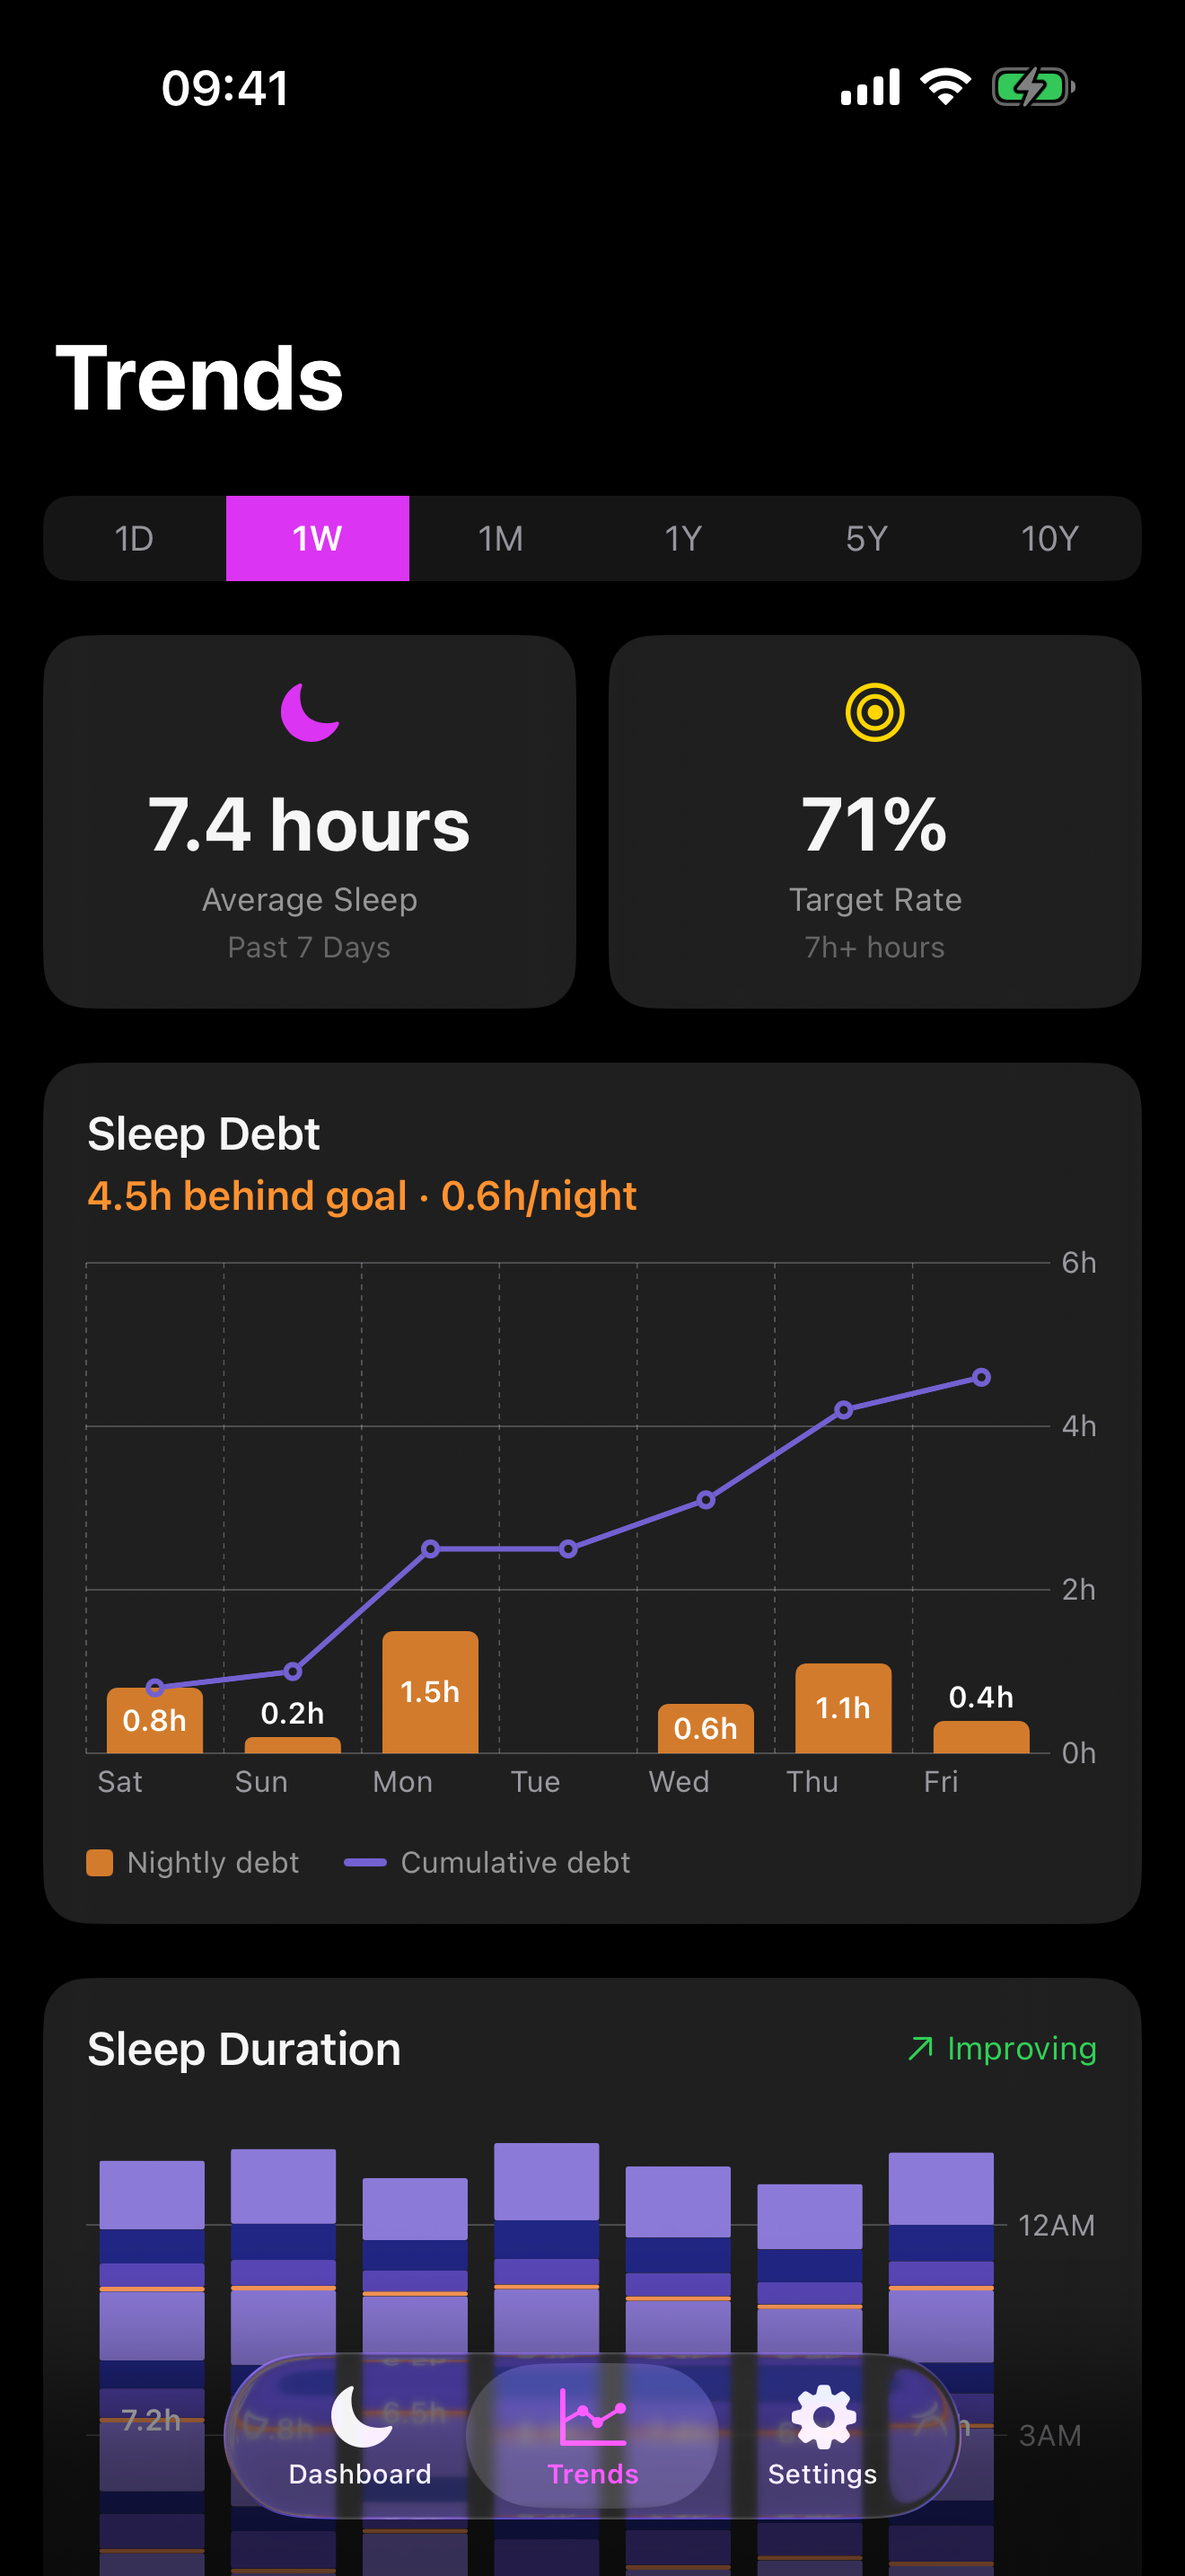
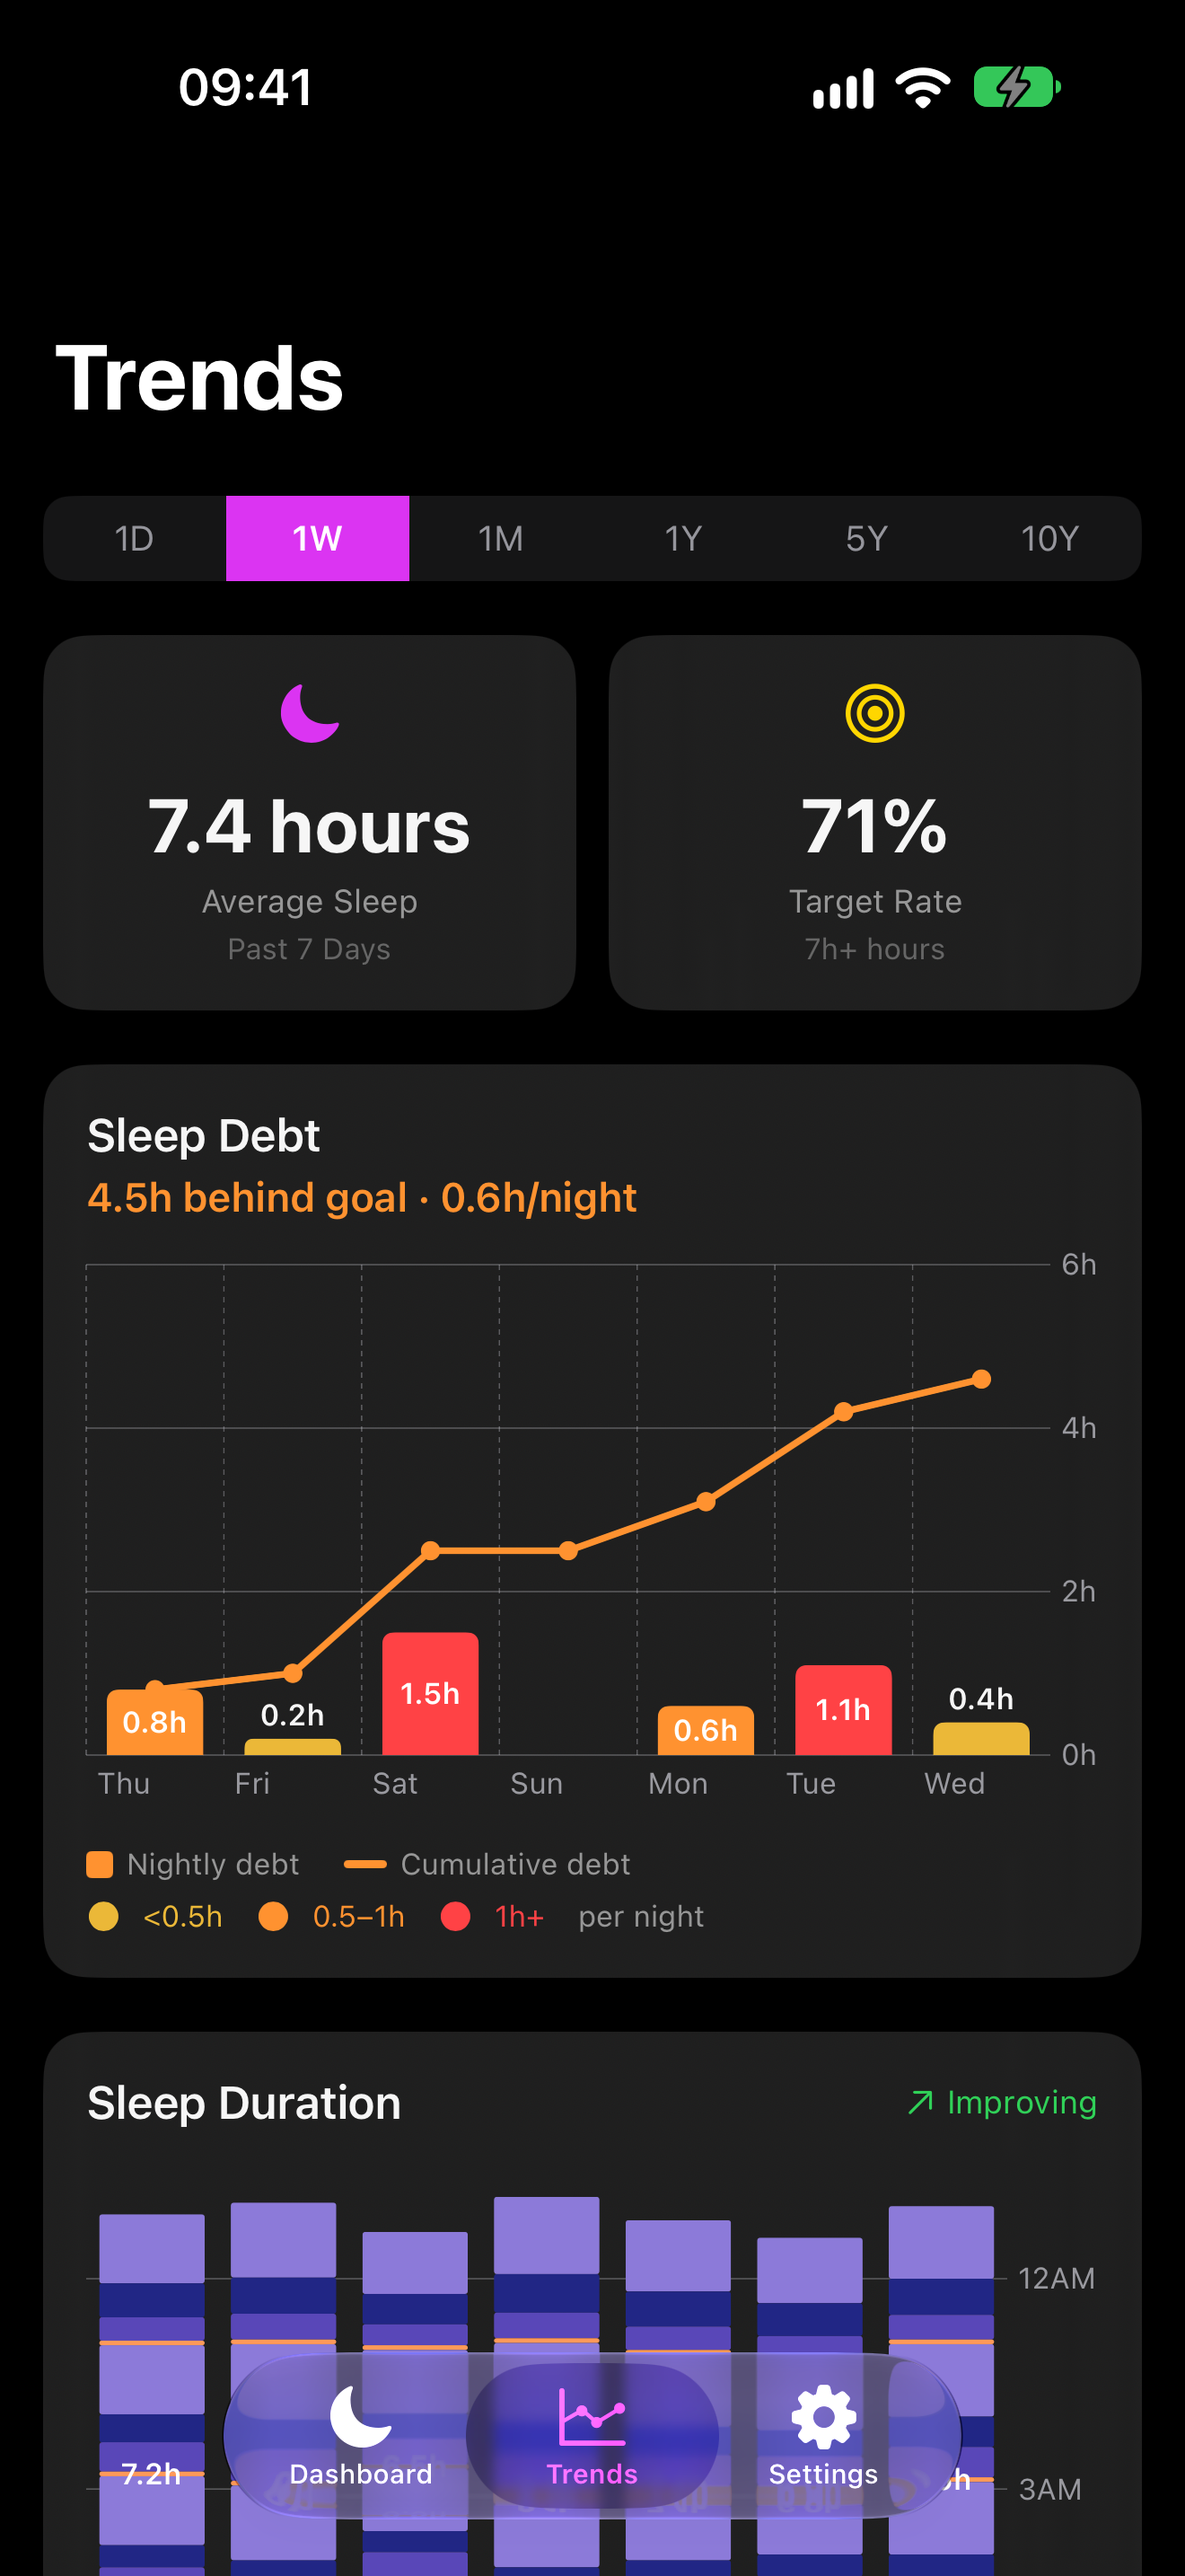
Retake App Store screenshots with shortfall severity colours
Generalise the opt-in capture test to produce the full 01-05 set plus the
monthly By time view used by the website, and add a DEBUG-only 'yearly'
screenshot destination so 1Y By weekday can be captured without UI
automation (used for the iPad set, where the XCUITest session stalled).

diff --git a/SomnusUITests/SomnusUITests.swift b/SomnusUITests/SomnusUITests.swift
@@ -79,16 +79,34 @@ final class SomnusUITests: XCTestCase {
         XCTAssertFalse(app.buttons["By weekday"].exists)
     }
 
-    /// Captures App Store screenshots of the weekday sleep-debt views from the DEBUG-only
-    /// synthetic fixture. Skipped unless run with TEST_RUNNER_SOMNUS_CAPTURE_SCREENSHOTS=1.
-    func testCaptureWeekdayDebtScreenshots() throws {
+    /// Captures the full App Store screenshot set (01–05) plus the monthly By time view used by
+    /// the marketing website, all from the DEBUG-only synthetic fixture. Skipped unless run with
+    /// TEST_RUNNER_SOMNUS_CAPTURE_SCREENSHOTS=1.
+    func testCaptureAppStoreScreenshots() throws {
         try XCTSkipUnless(ProcessInfo.processInfo.environment["SOMNUS_CAPTURE_SCREENSHOTS"] == "1")
-        app.terminate()
-        app.launchArguments += [
-            "-screenshotMode", "-screenshotDestination=monthly-duration", "-screenshotWeekdayDebt"
-        ]
-        app.launch()
 
+        relaunchForScreenshot(destination: "dashboard")
+        // iPad presents tabs outside `tabBars`, so match the tab button anywhere.
+        XCTAssertTrue(app.buttons["Dashboard"].firstMatch.waitForExistence(timeout: 5))
+        sleep(2)
+        attachScreenshot("01-dashboard")
+
+        relaunchForScreenshot(destination: "debt")
+        XCTAssertTrue(app.staticTexts["Cumulative debt"].waitForExistence(timeout: 5))
+        sleep(1)
+        attachScreenshot("02-sleep-debt")
+
+        relaunchForScreenshot(destination: "duration")
+        XCTAssertTrue(app.staticTexts["Sleep Duration"].waitForExistence(timeout: 5))
+        sleep(2)
+        attachScreenshot("03-sleep-duration")
+
+        relaunchForScreenshot(destination: "monthly-duration")
+        XCTAssertTrue(app.staticTexts["Cumulative debt"].waitForExistence(timeout: 5))
+        sleep(1)
+        attachScreenshot("web-debt-month")
+
+        relaunchForScreenshot(destination: "monthly-duration", extraArguments: ["-screenshotWeekdayDebt"])
         let monday = app.buttons["weekday-debt-2"]
         XCTAssertTrue(monday.waitForExistence(timeout: 5))
         scrollSleepDebtIntoView()
@@ -120,6 +138,13 @@ final class SomnusUITests: XCTestCase {
             start.press(forDuration: 0.05, thenDragTo: end, withVelocity: .slow, thenHoldForDuration: 0.3)
         }
         sleep(1)
+    }
+
+    private func relaunchForScreenshot(destination: String, extraArguments: [String] = []) {
+        app.terminate()
+        app.launchArguments = ["-hasCompletedOnboarding", "YES", "-screenshotMode",
+                               "-screenshotDestination=\(destination)"] + extraArguments
+        app.launch()
     }
 
     private func attachScreenshot(_ name: String) {

diff --git a/Somnus/App/ContentView.swift b/Somnus/App/ContentView.swift
@@ -44,6 +44,9 @@ final class AppNavigation: ObservableObject {
         case .monthlyDuration:
             selectedTab = .trends
             trendsPeriodRequest = .monthly
+        case .yearly:
+            selectedTab = .trends
+            trendsPeriodRequest = .yearly
         }
         #endif
     }

diff --git a/Somnus/App/ScreenshotSupport.swift b/Somnus/App/ScreenshotSupport.swift
@@ -10,6 +10,7 @@ enum ScreenshotSupport {
         case sleepDebt = "debt"
         case sleepDuration = "duration"
         case monthlyDuration = "monthly-duration"
+        case yearly
     }
 
     private static let modeArgument = "-screenshotMode"
